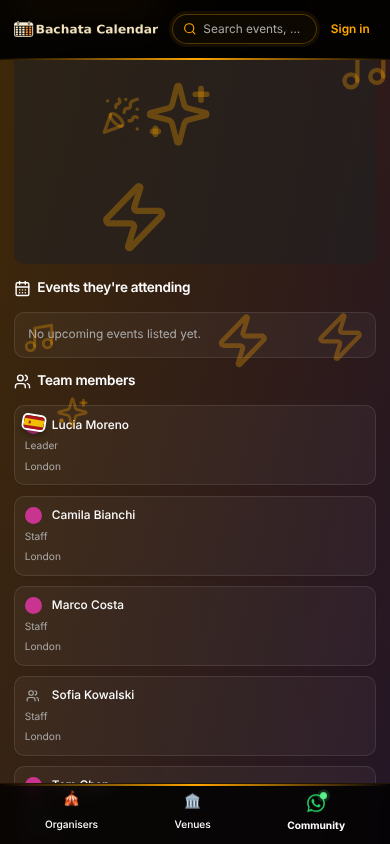
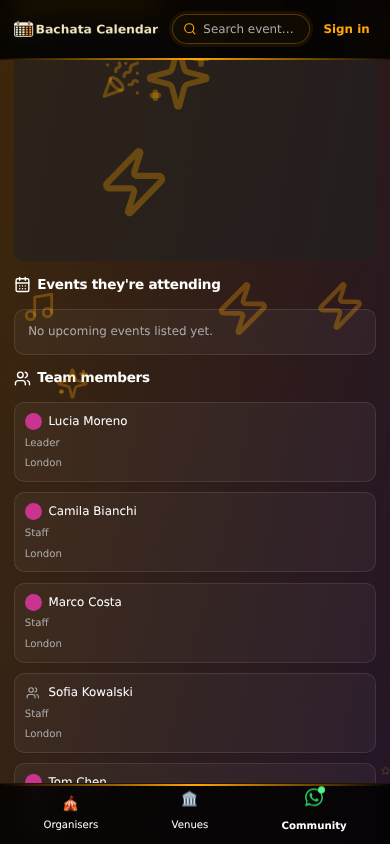
fix(people): header-search sticker audit counts only visible text; no sticker under 28px
The red phone-qa on a38e596 (header search, 360x640, AR covering "Bachata"
184px2) was not a visible overlap: "Bachata" is the /djs hero title, hidden
under the opaque open search panel. CI has no system Inter, so the title
falls back to DejaVu Sans, is wider, and its left edge slid under the AR
sticker's box. Reproduced exactly by hiding Inter from fontconfig.

- Phone spec audit: a text overlap counts only when elementFromPoint at the
  overlap centre is in that text's own element chain (the sticker is
  pointer-events: none). A mutant (row gap-0) is still caught.
- Header search + Cmd+K rows: mr-[5px] on the photo wrapper, so the
  sticker is 8px clear of the name (was about 3px).
- Owner decision 2026-10-13: photos under 28px get no sticker
  (MIN_FLAG_PHOTO_PX); the country is the photo's role img, aria-label and
  title (smallPhotoNationalityProps). Applied on the /vendors/:id team
  circles; matrix and phone spec prove it.

Claude-Session: https://claude.ai/code/session_01XVvvVZzdYdGWkiB5Ud2pky

diff --git a/tests/e2e-phone/people-nationality-flag.phone.spec.ts b/tests/e2e-phone/people-nationality-flag.phone.spec.ts
@@ -17,9 +17,12 @@ import {
  *   - exactly the coded people carry one, with "Nationality: <country>" and the title;
  *   - the sticker (with its white edge) is fully on screen and NOT cut by any ancestor
  *     with overflow hidden/auto/scroll/clip (ancestors walked, rects compared);
- *   - it covers no text (the person's name, a role) and no neighbouring sticker;
+ *   - it covers no VISIBLE text (the person's name, a role; text hidden under an
+ *     opaque panel is not covered) and no neighbouring sticker;
  *   - a tap at its centre goes through to the photo's link (pointer-events: none);
  *   - nothing animates; no sideways page scroll.
+ * A photo under 28px (/vendors/:id team) gets no sticker: the country is on the photo
+ * (role img, aria-label, title) instead.
  * Measured numbers are logged ([sticker ...]) for the PR. SHOTS=<dir> writes screenshots.
  * The organiser owner case also proves the photo pencil stays reachable and clear.
  */
@@ -41,7 +44,7 @@ type Surface = {
   codes: string[] | null;
   /** Opens the surface after the page loads (the header search). */
   open?: (page: Page) => Promise<void>;
-  /** The photo is too small for a 20px sticker to stay in its corner: reported, not hidden. */
+  /** The photo is under 28px: NO sticker (owner decision 2026-10-13); the country is the photo's label and title. */
   tooSmall?: boolean;
 };
 
@@ -51,7 +54,7 @@ const SURFACES: Surface[] = [
   { key: 'dancers', name: '/dancers list (32px)', url: '/dancers', codes: storedCodes(FLAG_PEOPLE.slice(0, 30)) },
   { key: 'all-profiles', name: '/all-profiles cards (inset)', url: '/all-profiles', codes: null },
   { key: 'videographers', name: '/videographers cards (inset)', url: '/videographers', codes: null },
-  { key: 'vendor-team', name: '/vendors/:id team (20px)', url: `/vendors/${VENDOR_ID}`, codes: codesOf(FLAG_PEOPLE.slice(0, 9)), tooSmall: true },
+  { key: 'vendor-team', name: '/vendors/:id team (20px, no sticker)', url: `/vendors/${VENDOR_ID}`, codes: codesOf(FLAG_PEOPLE.slice(0, 9)), tooSmall: true },
   { key: 'practice-partners', name: '/practice-partners (56px, signed in)', url: '/practice-partners', opts: { signedInAsOwner: true }, codes: storedCodes(FLAG_PEOPLE.slice(0, 30)) },
   { key: 'dj-hero', name: '/djs/:id hero (132px)', url: `/djs/${FLAG_DJ_ID}`, codes: ['ES'] },
   { key: 'dancer-hero', name: '/dancers/:id hero (inset)', url: `/dancers/${FLAG_DANCER_ID}`, codes: ['ES'] },
@@ -145,7 +148,16 @@ function auditStickers(scope: string): StickerAudit[] {
       range.selectNodeContents(n);
       for (const rr of Array.from(range.getClientRects())) {
         const px = inter(s, { l: rr.left, t: rr.top, r: rr.right, b: rr.bottom });
-        if (px > 0.5) textOverlap.push({ text: t.slice(0, 40), px: Math.round(px) });
+        if (px <= 0.5) continue;
+        // Only text a person can SEE there: text under an opaque panel (the /djs hero
+        // title under the open header search) is not covered by the sticker. The sticker
+        // is pointer-events: none, so elementFromPoint at the overlap's centre returns
+        // what is on top beneath it; the text counts if that is in its own element chain.
+        const cx = (Math.max(s.l, rr.left) + Math.min(s.r, rr.right)) / 2;
+        const cy = (Math.max(s.t, rr.top) + Math.min(s.b, rr.bottom)) / 2;
+        const top = document.elementFromPoint(cx, cy);
+        if (top && !top.contains(n) && !n.parentElement.contains(top)) continue;
+        textOverlap.push({ text: t.slice(0, 40), px: Math.round(px) });
       }
     }
     let stickerOverlap = 0;
@@ -193,6 +205,30 @@ for (const vp of SIZES) {
       test(`${s.name}: sticker on screen, not clipped, clear of names and neighbours, taps go through`, async ({ page }) => {
         await fakeSupabase(page, { realClock: true, ...s.opts });
         await page.goto(s.url);
+        if (s.tooSmall) {
+          // Under 28px: no sticker at all; every coded person's photo carries the country.
+          await page.locator('[data-nationality-photo]').first().waitFor();
+          await settled(page);
+          expect(await page.locator('[data-nationality-flag]').count(), 'no sticker on a photo under 28px').toBe(0);
+          const photos = await page.evaluate(() => Array.from(document.querySelectorAll<HTMLElement>('[data-nationality-photo]')).map((el) => ({
+            code: el.dataset.nationalityPhoto ?? '', role: el.getAttribute('role'), label: el.getAttribute('aria-label'), title: el.getAttribute('title'), w: Math.round(el.getBoundingClientRect().width),
+          })));
+          expect(photos.map((p) => p.code).sort(), 'every coded person, none for null / typed text').toEqual([...(s.codes ?? [])].sort());
+          for (const p of photos) {
+            expect(p.w, `the photo is under 28px (${p.code})`).toBeLessThan(28);
+            expect(p.role, `photo is an img (${p.code})`).toBe('img');
+            expect(p.label, `aria-label on the photo (${p.code})`).toBe(`Nationality: ${country.of(p.code)}`);
+            expect(p.title, `title on the photo (${p.code})`).toBe(country.of(p.code));
+          }
+          console.log(`[sticker ${s.key} ${vp.width}x${vp.height}] n=0 photos=${photos.length} photo=${photos[0].w}px (no sticker under 28px)`);
+          expect(await checkOverflow(page), 'no sideways scroll').toEqual([]);
+          if (process.env.SHOTS) {
+            await page.locator('[data-nationality-photo]').first().evaluate((el) => el.scrollIntoView({ block: 'center' }));
+            await frames(page);
+            await page.screenshot({ path: `${process.env.SHOTS}/${s.key}-${vp.width}x${vp.height}.png`, scale: 'css' });
+          }
+          return;
+        }
         await page.locator('[data-nationality-flag]').first().waitFor();
         await settled(page);
         const scope = s.open ? '#omnibox-listbox' : 'body';
@@ -222,7 +258,7 @@ for (const vp of SIZES) {
           expect(f.textOverlap, `covers no text (${at})`).toEqual([]);
           expect(f.stickerOverlap, `clear of the neighbouring sticker (${at})`).toBe(0);
           expect(f.throughTo, `a tap goes through (${at})`).not.toBe('STICKER');
-          if (!s.tooSmall) expect(f.photoCover, `covers only the corner (${at})`).toBeLessThanOrEqual(0.4);
+          expect(f.photoCover, `covers only the corner (${at})`).toBeLessThanOrEqual(0.4);
         }
         // A tap on a linked photo's sticker lands on that photo's link.
         if (s.key === 'djs') expect(all[0].throughTo).toBe(`a:/djs/${FLAG_PEOPLE[0].id}`);

diff --git a/src/components/people/__tests__/nationalityFlag.surfaces.matrix.test.tsx b/src/components/people/__tests__/nationalityFlag.surfaces.matrix.test.tsx
@@ -60,7 +60,7 @@ vi.mock('@/components/profile/ProfileEventTimeline', () => ({ default: () => nul
 
 import { NationalityFlag, TILE_FLAG_SIZE, stickerSize } from '../NationalityFlag';
 import { flagArtMarkup } from '../flagArt';
-import { pickNationalityCode } from '../nationality';
+import { MIN_FLAG_PHOTO_PX, pickNationalityCode, smallPhotoNationalityProps } from '../nationality';
 import DJs from '@/pages/DJs';
 import Teachers from '@/pages/Teachers';
 import Dancers from '@/pages/Dancers';
@@ -143,6 +143,8 @@ type Surface = {
   read: string;
   /** False when the surface has no photo box at all without a photo (then no flag). */
   flagWithoutPhoto: boolean;
+  /** Photo under MIN_FLAG_PHOTO_PX: no sticker; the country is the photo's role img, aria-label and title. */
+  smallPhoto?: boolean;
   mount: (s: Shape) => Promise<void>;
 };
 
@@ -201,6 +203,7 @@ const SURFACES: Surface[] = [
     name: '/vendors/:id team (VendorDetail.tsx)',
     read: 'get_public_vendor_detail_v1 team[]',
     flagWithoutPhoto: true,
+    smallPhoto: true,
     mount: async (s) => {
       fixtures.rpc.get_public_vendor_detail_v1 = [{ id: 'v1', business_name: 'Shoe Shop', team: [{ dancer_id: ID, name: s.name, avatar_url: s.photo, nationality_code: s.code, city: null, role: null, is_leader: false }], product_categories: [], products: [], faq: [] }];
       withProviders(<VendorDetail />, '/vendors/v1', '/vendors/:id');
@@ -316,10 +319,23 @@ describe.each(SURFACES)('$name ($read)', (surface) => {
     await surface.mount(shape);
     const want = !shape.photo && !surface.flagWithoutPhoto ? null : shape.want;
     const flags = Array.from(document.querySelectorAll<HTMLElement>('[data-nationality-flag]'));
+    const photos = Array.from(document.querySelectorAll<HTMLElement>('[data-nationality-photo]'));
     if (!want) {
       expect(flags).toHaveLength(0);
+      expect(photos).toHaveLength(0);
       return;
     }
+    if (surface.smallPhoto) {
+      // Under 28px (owner decision 2026-10-13): no sticker; the photo carries the country.
+      expect(flags).toHaveLength(0);
+      expect(photos).toHaveLength(1);
+      expect(photos[0].dataset.nationalityPhoto).toBe(want.code);
+      expect(photos[0].getAttribute('role')).toBe('img');
+      expect(photos[0].getAttribute('aria-label')).toBe(`Nationality: ${want.country}`);
+      expect(photos[0].getAttribute('title')).toBe(want.country);
+      return;
+    }
+    expect(photos).toHaveLength(0);
     expect(flags).toHaveLength(1);
     const f = flags[0];
     expect(f.dataset.nationalityFlag).toBe(want.code);
@@ -353,10 +369,24 @@ describe('placement (Sticker spec)', () => {
     expect(f.style.width).toBe('44px');
     expect(stickerSize(96)).toEqual({ w: 44, h: 29.33 });
   });
-  it('never narrower than 20px (20px vendor-team circles, 40px list rows)', () => {
-    expect(stickerSize(20)).toEqual({ w: 20, h: 13.33 });
+  it('never narrower than 20px (28px and 40px photos)', () => {
+    expect(stickerSize(28)).toEqual({ w: 20, h: 13.33 });
     expect(stickerSize(40)).toEqual({ w: 20, h: 13.33 });
     expect(stickerSize(56).w).toBe(26);
+  });
+  it('no sticker under 28px; the photo props carry the country instead (owner decision 2026-10-13)', () => {
+    expect(MIN_FLAG_PHOTO_PX).toBe(28);
+    for (const size of [17, 20, 24, 27]) {
+      const { container, unmount } = flagFor('ES', size);
+      expect(container.querySelector('[data-nationality-flag]'), `${size}px`).toBeNull();
+      unmount();
+      expect(smallPhotoNationalityProps('ES', size)).toEqual({ role: 'img', 'aria-label': 'Nationality: Spain', title: 'Spain', 'data-nationality-photo': 'ES' });
+    }
+    const { container } = flagFor('ES', 28);
+    expect(container.querySelector('[data-nationality-flag]')).not.toBeNull();
+    expect(smallPhotoNationalityProps('ES', 28)).toEqual({});
+    expect(smallPhotoNationalityProps(null, 20)).toEqual({});
+    expect(smallPhotoNationalityProps('Kosovar', 20)).toEqual({});
   });
   it('inset: inside the card photo corner', () => {
     const { container } = render(<div style={{ position: 'relative' }}><NationalityFlag code="ES" size={TILE_FLAG_SIZE} placement="inset" inset={8} /></div>);

diff --git a/src/pages/VendorDetail.tsx b/src/pages/VendorDetail.tsx
@@ -17,8 +17,7 @@ import GlobalLayout from "@/components/layout/GlobalLayout";
 
 import { useSeo, buildSeoForRoute } from '@/lib/seo';
 import { buildMailtoHref, buildWhatsAppHref } from '@/lib/contactValidation';
-import { NationalityFlag } from '@/components/people/NationalityFlag';
-import { normaliseNationalityCode } from '@/components/people/nationality';
+import { normaliseNationalityCode, smallPhotoNationalityProps } from '@/components/people/nationality';
 const FALLBACK_IMAGE = "https://images.unsplash.com/photo-1521572163474-6864f9cf17ab?w=1200&auto=format&fit=crop&q=80";
 
 type EventLinkItem = {
@@ -402,8 +401,12 @@ const VendorDetail = () => {
                   const memberContent = (
                     <Card className="bg-white/[0.04] border-white/10 h-full hover:border-white/20 hover:bg-white/[0.06] transition-colors">
                       <CardContent className="p-3 space-y-2">
-                        <div className="flex items-center gap-3">
-                          <span className="relative flex h-5 w-5 flex-shrink-0 items-center justify-center">
+                        <div className="flex items-center gap-2">
+                          {/* Under 28px: no sticker, the country is the photo's label and title. */}
+                          <span
+                            className="flex h-5 w-5 flex-shrink-0 items-center justify-center"
+                            {...smallPhotoNationalityProps(member.nationalityCode, 20)}
+                          >
                             {member.avatarUrl ? (
                               <img
                                 src={optimizedImageUrl(member.avatarUrl, 96)}
@@ -413,7 +416,6 @@ const VendorDetail = () => {
                             ) : (
                               <Users className="h-4 w-4 text-muted-foreground flex-shrink-0" />
                             )}
-                            <NationalityFlag code={member.nationalityCode} size={20} />
                           </span>
                           <span className="text-sm font-medium truncate">{member.name}</span>
                         </div>

diff --git a/src/components/people/NationalityFlag.tsx b/src/components/people/NationalityFlag.tsx
@@ -5,6 +5,8 @@
  *
  * - No flag at all when the code is null, empty, malformed or not a country (see
  *   nationality.ts): renders nothing, so there is no placeholder and no gap.
+ * - No sticker on a photo under MIN_FLAG_PHOTO_PX (28px): the caller puts
+ *   smallPhotoNationalityProps on the photo, so the country is still its label and title.
  * - pointer-events: none, so it never takes a tap meant for the photo or a control.
  * - role="img" + aria-label "Nationality: <country>" and a title with the country name.
  * - Static: a 3:2 flag tilted 9deg with a 2px white edge and a soft drop shadow. No
@@ -18,7 +20,7 @@
  */
 import type { CSSProperties } from 'react';
 import { cn } from '@/lib/utils';
-import { nationalityLabel } from './nationality';
+import { MIN_FLAG_PHOTO_PX, nationalityLabel } from './nationality';
 import { flagArtMarkup } from './flagArt';
 
 export type FlagPlacement = 'corner' | 'inset';
@@ -28,6 +30,7 @@ export const TILE_FLAG_SIZE = 48;
 
 /** Smallest sticker width in CSS px: below this the stripes stop reading. */
 export const MIN_STICKER_PX = 20;
+
 
 export interface NationalityFlagProps {
   /** nationality_code from a public read (or a stored nationality); anything is accepted. */
@@ -62,7 +65,7 @@ export function stickerBoxStyle(size: number, placement: FlagPlacement = 'corner
 
 export function NationalityFlag({ code, size, placement = 'corner', inset, className }: NationalityFlagProps) {
   const label = nationalityLabel(code);
-  if (!label) return null;
+  if (!label || size < MIN_FLAG_PHOTO_PX) return null;
   return (
     <span
       role="img"

diff --git a/src/components/people/nationality.ts b/src/components/people/nationality.ts
@@ -66,6 +66,23 @@ export function nationalityLabel(raw: unknown): { code: string; name: string; ar
 }
 
 /**
+ * Photos smaller than this (CSS px) get NO sticker (owner decision 2026-10-13): a 20px
+ * sticker on a 17-20px circle covers almost all of it. The country stays on the photo
+ * as its aria-label and title instead (smallPhotoNationalityProps).
+ */
+export const MIN_FLAG_PHOTO_PX = 28;
+
+/**
+ * For a photo under MIN_FLAG_PHOTO_PX: the props that put the country on the photo
+ * itself (role img, "Nationality: <country>", title). Empty for a bigger photo (the
+ * sticker carries them) or no code.
+ */
+export function smallPhotoNationalityProps(raw: unknown, size: number): { role?: 'img'; 'aria-label'?: string; title?: string; 'data-nationality-photo'?: string } {
+  const label = size < MIN_FLAG_PHOTO_PX ? nationalityLabel(raw) : null;
+  return label ? { role: 'img', 'aria-label': label.ariaLabel, title: label.name, 'data-nationality-photo': label.code } : {};
+}
+
+/**
  * Reads `nationality_code` off any payload object. Only a row WITHOUT that key (a direct
  * table read) falls back to the stored `nationality`: when a read emits the key, its null
  * is a decision (hidden person, unmapped value) and must not be overridden.

diff --git a/src/components/search/HeaderSearch.tsx b/src/components/search/HeaderSearch.tsx
@@ -334,7 +334,8 @@ export const HeaderSearch = ({ expanded, onExpandedChange }: HeaderSearchProps) 
                         onClick={() => goTo(r.href, q.trim())}
                         className={cn('flex w-full items-center gap-3 px-3 py-2 text-left', activeIndex === idx && 'bg-primary/10')}
                       >
-                        <span className="relative shrink-0">
+                        {/* mr: room for the sticker that stands out past the photo's top-right. */}
+                        <span className="relative mr-[5px] shrink-0">
                           <span className={cn('flex h-9 w-9 shrink-0 items-center justify-center overflow-hidden bg-surface-hover', round)}>
                             {r.imageUrl
                               ? <img src={optimizedImageUrl(r.imageUrl, 96)} alt="" loading="lazy" className="h-full w-full object-cover" />

diff --git a/src/components/search/SearchOverlay.tsx b/src/components/search/SearchOverlay.tsx
@@ -191,7 +191,8 @@ export function SearchOverlay({ open, onClose }: SearchOverlayProps) {
                   onClick={() => goTo(r, idx)}
                   className={cn('flex w-full items-center gap-3 px-3 py-2 text-left', activeIndex === idx && 'bg-primary/10')}
                 >
-                  <span className="relative shrink-0">
+                  {/* mr: room for the sticker that stands out past the photo's top-right. */}
+                  <span className="relative mr-[5px] shrink-0">
                     <span className={cn('flex h-9 w-9 shrink-0 items-center justify-center overflow-hidden bg-surface-hover', round)}>
                       {r.imageUrl ? <img src={optimizedImageUrl(r.imageUrl, 96)} alt="" loading="lazy" className="h-full w-full object-cover" /> : <Icon className="h-4 w-4 text-muted-foreground" />}
                     </span>

diff --git a/docs/session-handover-2026-10-12-people-nationality-flags.md b/docs/session-handover-2026-10-12-people-nationality-flags.md
@@ -26,21 +26,39 @@ Branch: `feat/people-nationality-flags`, PR #740.
   - /organisers/:id team grid: the right column's sticker was cut 2.4px (390) / 1.1px (360) by GlobalLayout's
     `overflow-x-clip`. Fix: `px-3` on the team grid.
   - /account: the sticker touched the name. Fix: `mr-2` on the photo wrapper.
-- **Too small, reported not hidden**: /vendors/:id team circles render at 17px (`h-5` at the phone's 13.5px root);
-  the 20px minimum sticker covers 93% of the photo. Making the circle bigger is a design call for the owner.
-  /dancers list photos are 27px (sticker covers 39%, still the corner).
+  - Header search rows (+ Cmd+K overlay, same markup): `mr-[5px]` on the photo wrapper, so the sticker's white edge
+    is 8px clear of the name at 360 and 390 (was about 3px).
+- **The red phone-qa on a38e596 (header search, 360x640, AR covering "Bachata" 184px2)**: NOT a visible overlap.
+  The text was the /djs hero title "Bachata DJs", hidden under the opaque open search panel. CI (ubuntu-latest)
+  has no system Inter, so the title falls back to DejaVu Sans and is wider (x 50-228 instead of 60-220): its left
+  edge slid under the AR sticker's box. Locally the box had a system Inter, so it passed. Reproduced exactly
+  (AR, 184, "Bachata") by hiding Inter from fontconfig (`FONTCONFIG_FILE` with a `rejectfont` for
+  /usr/share/fonts/opentype/inter). Fix in the spec's audit: a text overlap counts only when
+  `document.elementFromPoint` at the overlap's centre is in that text's own element chain (the sticker is
+  pointer-events: none). Proved both ways under CI fonts: the original spec red with the CI error, the new spec
+  green; and a mutant (row `gap-0`, no `mr`) is still caught ("Lucia", 52px2).
+- **`overlap.phone.spec.ts` /auth 360x640 (scrollWidth 390)**: not this PR. Passes on `origin/main` (5e0ec4c) and
+  on this branch with the same command under CI fonts; seen flaky on #733.
+- **No sticker under 28px (owner decision 2026-10-13)**: `MIN_FLAG_PHOTO_PX = 28` and `smallPhotoNationalityProps` in `nationality.ts`;
+  `NationalityFlag` renders nothing for a smaller `size`, and the caller spreads `smallPhotoNationalityProps(code, size)`
+  on the photo (role img, aria-label "Nationality: <country>", title, `data-nationality-photo`). Applied on the
+  /vendors/:id team circles (size 20, 17px rendered); their row gap is back to main's `gap-2`. /dancers list
+  (size 32, 27px rendered, sticker covers 39%) keeps its sticker: the rule reads the `size` prop. PersonChip `xs`
+  (24px) would also get no sticker, but no caller uses `xs` and PersonChip does not spread the label props (it
+  lazy-loads the flag module): wire them if `xs` ever ships.
 - **Not wired, on purpose**: CommunitySpotlight (decorative overlapping stack), AvatarUpload (an upload control), the
   organiser team picker's search rows (`organiser_team_search_people_v1` emits no code -- an admin change),
   /teachers/:id (no portrait exists), dead `sections/` files.
 - **Owner controls on a photo**: the only one is the organiser entity's own pencil (`PhotoSlot`, bottom-right). The
   phone spec proves it stays reachable (elementFromPoint) and clear of every sticker.
 - **Tests**: `nationalityFlag.unit.test.ts` (the rule + artwork), `nationalityFlag.surfaces.matrix.test.tsx`
-  (15 surfaces x 9 shapes + 3 placement checks; asserts the same markup on every surface), phone spec
+  (15 surfaces x 9 shapes + 4 placement checks, incl. no sticker under 28px and the photo's label/title; asserts the
+  same markup on every surface), phone spec
   `people-nationality-flag.phone.spec.ts` (15 surfaces + the owner pencil, at 390x844 and 360x640: count and codes,
   label/title, on screen, not clipped by any overflow ancestor, no text or neighbouring sticker covered, tap goes
-  through, no animation, >= 20px). The phone fake (`tests/e2e-phone/fakeSupabase.mjs`) now serves every one of the
+  through, no animation, >= 20px; /vendors/:id: no sticker, label and title on each photo). The phone fake (`tests/e2e-phone/fakeSupabase.mjs`) now serves every one of the
   15 surfaces; the phone config turns on `VITE_ENABLE_TEACHERS_DIRECTORY` (it only gates /teachers).
-  Screenshots: `docs/screenshots/nationality-flags/<surface>-<size>.png`.
+  Screenshots: `docs/screenshots/nationality-flags/<surface>-<size>.png`. header-search and vendor-team were retaken 2026-10-13 under CI's fonts (DejaVu fallback).
 - **Bundle**: the merge of main took main's parties/classes budget of 325 KB (#739). This branch's earlier 321 KB
   bump is gone with it. Measured after the swap: /parties 320.1 KB, /classes 320.2 KB (main 320.0 / 320.1), /event
   379.7 KB of 380 (main 379.1). The flag stays out of first load (lazy in HeaderSearch and PersonChip).
@@ -48,7 +66,6 @@ Branch: `feat/people-nationality-flags`, PR #740.
 ## Open
 - Backend option: have `event_view_p5` legacy_compat emit `nationality_code` (admin) so the programme needs no
   second read.
-- Vendor team circles (17px) are too small for the sticker: owner to decide (bigger circle, or no flag there).
 - /event is 0.3 KB under its 380 KB budget on this branch.
 - `/code-review` has not run on this diff (no review stamp).
 - Not verified on a real phone. Lighthouse and doc-weight need a Vercel preview and were not run locally.
@@ -56,4 +73,4 @@ Branch: `feat/people-nationality-flags`, PR #740.
 
 ## Next
 - The owner runs `/code-review`, then a phone test on /djs, an event with a coded teacher, an organiser team, and a
-  vendor team (to decide the 17px circle).
+  vendor team (no sticker; a screen reader reads the country on the photo).
